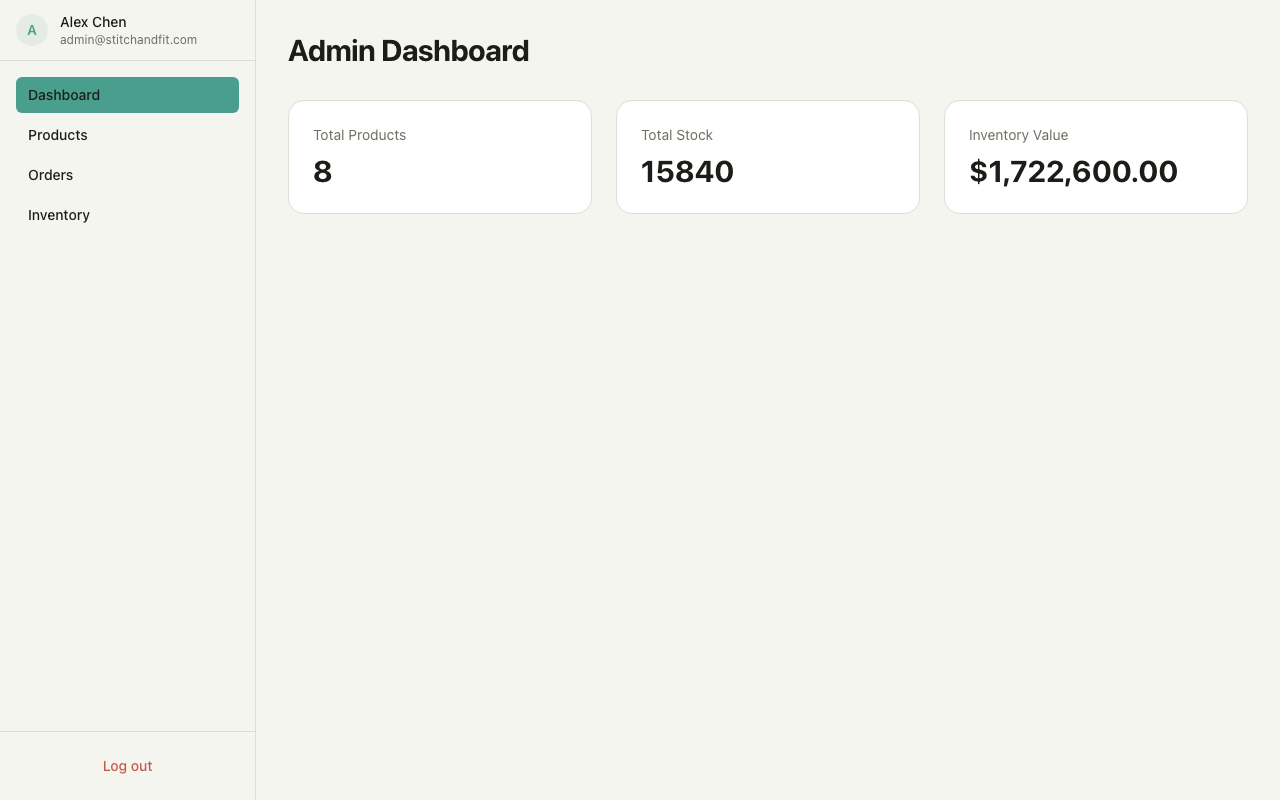
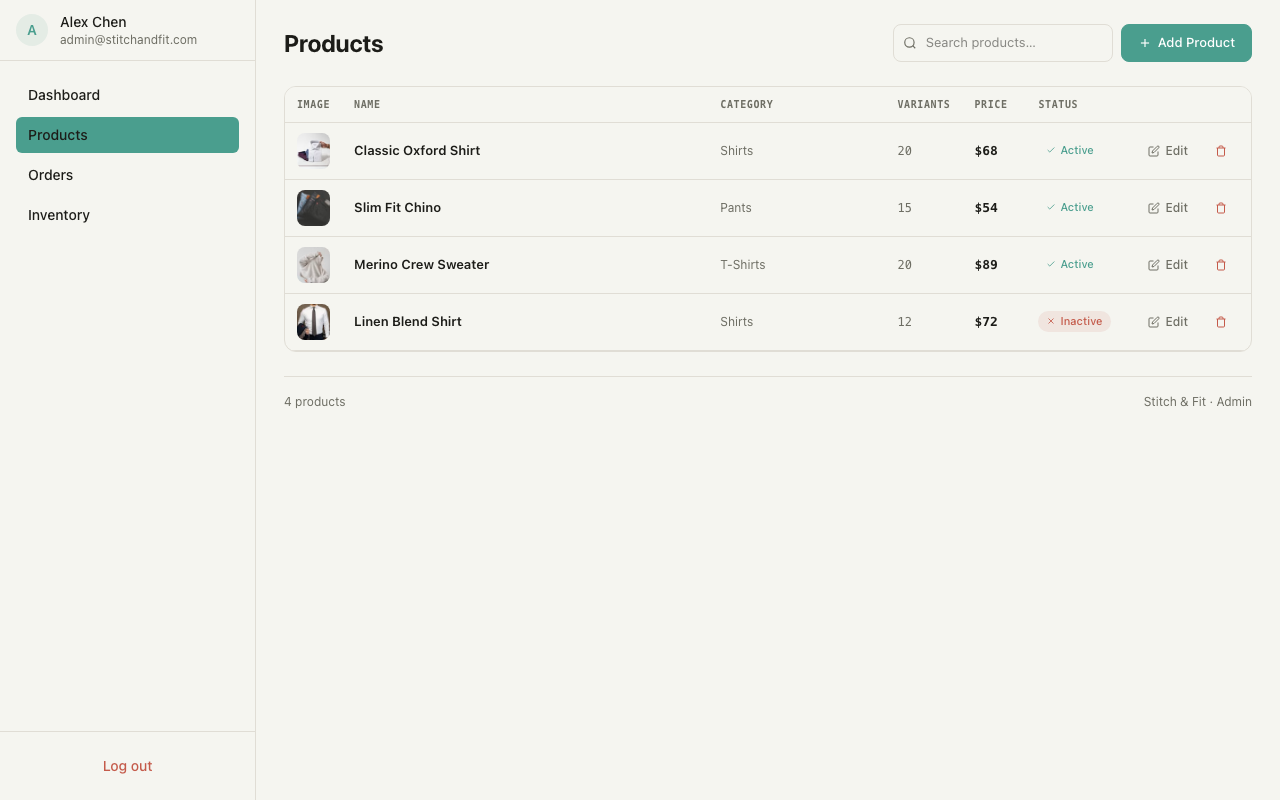
feat: add raya app project with image carousel and admin products screenshot

diff --git a/src/routes/projects/+page.svelte b/src/routes/projects/+page.svelte
@@ -2,6 +2,8 @@
 	import { base } from '$app/paths';
 	import * as config from '$lib/config';
 
+	let currentImageIndex: Record<string, number> = {};
+
 	const projects = [
 		{
 			name: 'sweet-home',
@@ -10,7 +12,7 @@
 			timeline: 'May 2025 — Present',
 			url: 'https://github.com/geardy47/sweet-home',
 			demo: 'https://gentashandi.com',
-			image: `${base}/images/projects/sweet-home-home.png`,
+			images: [`${base}/images/projects/sweet-home-home.png`],
 			description:
 				'Personal website and blog built with SvelteKit. Features a GitHub-inspired design system, dark mode, and markdown-powered content with Shiki syntax highlighting.',
 			highlights: [
@@ -28,7 +30,7 @@
 			timeline: '2025 — Present',
 			url: 'https://github.com/geardy47/stitch-and-fit',
 			demo: 'https://stitch-and-fit.vercel.app',
-			image: `${base}/images/projects/stitch-and-fit.png`,
+			images: [`${base}/images/projects/stitch-and-fit.png`],
 			description:
 				'Clothing E-Commerce MVP with a customer-facing storefront and a separate admin panel for managing products, orders, and inventory.',
 			highlights: [
@@ -46,7 +48,7 @@
 			timeline: '2025 — Present',
 			url: 'https://github.com/geardy47/stitch-and-fit',
 			demo: 'https://stitch-and-fit.vercel.app/admin',
-			image: `${base}/images/projects/stitch-and-fit-admin.png`,
+			images: [`${base}/images/projects/stitch-and-fit-admin.png`],
 			description:
 				'Admin dashboard for the Stitch & Fit e-commerce platform. Manages products, orders, inventory, and user roles with a dedicated admin interface.',
 			highlights: [
@@ -58,13 +60,35 @@
 			tags: ['SvelteKit', 'TypeScript', 'Tailwind CSS', 'Vercel', 'PostgreSQL']
 		},
 		{
+			name: 'Raya App',
+			role: 'Tech Lead & Mobile Developer',
+			status: 'Active',
+			timeline: 'May 2022 — Present',
+			url: 'https://github.com/geardy47',
+			demo: 'https://apps.apple.com/sg/app/raya-digital-bank/id1627393834',
+			images: [
+				`${base}/images/projects/raya-appstore.png`,
+				`${base}/images/projects/raya-playstore.png`
+			],
+			description:
+				'Digital banking app by Bank Raya, serving millions of users across Indonesia. Built and maintained as a core member of the mobile engineering team.',
+			highlights: [
+				'Transaction feature development and optimization',
+				'Payment gateway integration (QRIS, transfer, etc.)',
+				'Visa card management integration',
+				'Release management to Play Store & App Store',
+				'Git repository management and code review'
+			],
+			tags: ['Flutter', 'Dart', 'Firebase', 'Kotlin', 'Swift', 'Visa', 'Payment Gateway']
+		},
+		{
 			name: 'Manatek',
 			role: 'Solo',
 			status: 'Archived',
 			timeline: 'Jan 2019 — Apr 2019',
 			url: 'https://github.com/geardy47/Manatek',
 			demo: null,
-			image: `${base}/images/projects/manatek-placeholder.svg`,
+			images: [`${base}/images/projects/manatek-placeholder.svg`],
 			description:
 				'Pharmacy management application (Manajemen Apotek) built as a university project. Handles inventory tracking, drug stock management, and prescription records.',
 			highlights: [
@@ -75,6 +99,18 @@
 			tags: ['PHP', 'MySQL', 'Bootstrap']
 		}
 	];
+
+	function prevImage(projectName: string) {
+		const project = projects.find(p => p.name === projectName);
+		if (!project) return;
+		currentImageIndex[projectName] = ((currentImageIndex[projectName] ?? 0) - 1 + project.images.length) % project.images.length;
+	}
+
+	function nextImage(projectName: string) {
+		const project = projects.find(p => p.name === projectName);
+		if (!project) return;
+		currentImageIndex[projectName] = ((currentImageIndex[projectName] ?? 0) + 1) % project.images.length;
+	}
 </script>
 
 <svelte:head>
@@ -87,16 +123,12 @@
 	<div class="not-prose space-y-6">
 		{#each projects as project (project.name)}
 			<article class="rounded-lg border-border p-5 sm:p-6 border">
-				<!-- Image: centered padded showcase -->
-				{#if project.image}
-					<div class="flex items-center justify-center rounded-lg bg-muted/30 p-4 sm:p-6 mb-5 sm:mb-6">
+
+				<!-- Image showcase with carousel -->
+				{#if project.images.length > 0}
+					<div class="flex items-center justify-center rounded-lg bg-muted/30 p-4 sm:p-6 mb-5 sm:mb-6 relative">
 						{#if project.name === 'sweet-home' || project.name === 'stitch-and-fit' || project.name === 'stitch-and-fit Admin'}
-							<a
-								href={project.url}
-								target="_blank"
-								rel="noopener noreferrer"
-								class="block w-full overflow-hidden rounded-lg ring-1 ring-border/50 shadow-sm"
-							>
+							<div class="w-full overflow-hidden rounded-lg ring-1 ring-border/50 shadow-sm">
 								<div class="bg-muted/40">
 									<!-- Browser chrome -->
 									<div class="flex items-center gap-1.5 border-border border-b px-4 py-2">
@@ -104,29 +136,44 @@
 										<span class="inline-block size-2.5 rounded-full bg-yellow-500"></span>
 										<span class="inline-block size-2.5 rounded-full bg-green-500"></span>
 										<span class="text-muted ml-2 inline-block h-5 flex-1 rounded bg-muted/30 text-[10px] leading-5 text-center">
-											{project.name === 'sweet-home' ? 'gentashandi.com' : project.name === 'stitch-and-fit Admin' ? 'stitch-and-fit.vercel.app/admin' : 'stitch-and-fit.vercel.app'}
+											{project.name === 'sweet-home' ? 'gentashandi.com' : project.name === 'stitch-and-fit Admin' ? 'stitch-and-fit.vercel.app/admin/products' : 'stitch-and-fit.vercel.app'}
 										</span>
 									</div>
-									<img
-										src={project.image}
-										alt="{project.name} screenshot"
-										class="w-full"
-									/>
+									<a href={project.demo || project.url} target="_blank" rel="noopener noreferrer">
+										<img src={project.images[(currentImageIndex[project.name] ?? 0)]} alt="{project.name} screenshot" class="w-full" />
+									</a>
 								</div>
-							</a>
+							</div>
 						{:else}
-							<a
-								href={project.url}
-								target="_blank"
-								rel="noopener noreferrer"
-								class="block w-full overflow-hidden rounded-lg ring-1 ring-border/50 shadow-sm"
-							>
-								<img
-									src={project.image}
-									alt="{project.name} screenshot"
-									class="w-full"
-								/>
-							</a>
+							<div class="w-full overflow-hidden rounded-lg ring-1 ring-border/50 shadow-sm">
+								<a href={project.demo || project.url} target="_blank" rel="noopener noreferrer">
+									<img src={project.images[(currentImageIndex[project.name] ?? 0)]} alt="{project.name} screenshot" class="w-full" />
+								</a>
+							</div>
+						{/if}
+
+						<!-- Prev/Next buttons -->
+						{#if project.images.length > 1}
+							<button
+								onclick={() => prevImage(project.name)}
+								class="absolute left-2 top-1/2 -translate-y-1/2 flex size-8 items-center justify-center rounded-full bg-background/80 text-muted shadow-sm ring-1 ring-border hover:bg-background hover:text-fg transition-colors"
+								aria-label="Previous image"
+							>&larr;</button>
+							<button
+								onclick={() => nextImage(project.name)}
+								class="absolute right-2 top-1/2 -translate-y-1/2 flex size-8 items-center justify-center rounded-full bg-background/80 text-muted shadow-sm ring-1 ring-border hover:bg-background hover:text-fg transition-colors"
+								aria-label="Next image"
+							>&rarr;</button>
+							<!-- Dots indicator -->
+							<div class="absolute bottom-2 left-1/2 -translate-x-1/2 flex gap-1.5">
+								{#each project.images as _, i}
+									<button
+										onclick={() => { currentImageIndex[project.name] = i; }}
+										class="size-1.5 rounded-full transition-colors {i === (currentImageIndex[project.name] ?? 0) ? 'bg-foreground' : 'bg-muted-foreground/40'}"
+										aria-label="Go to image {i + 1}"
+									></button>
+								{/each}
+							</div>
 						{/if}
 					</div>
 				{/if}
